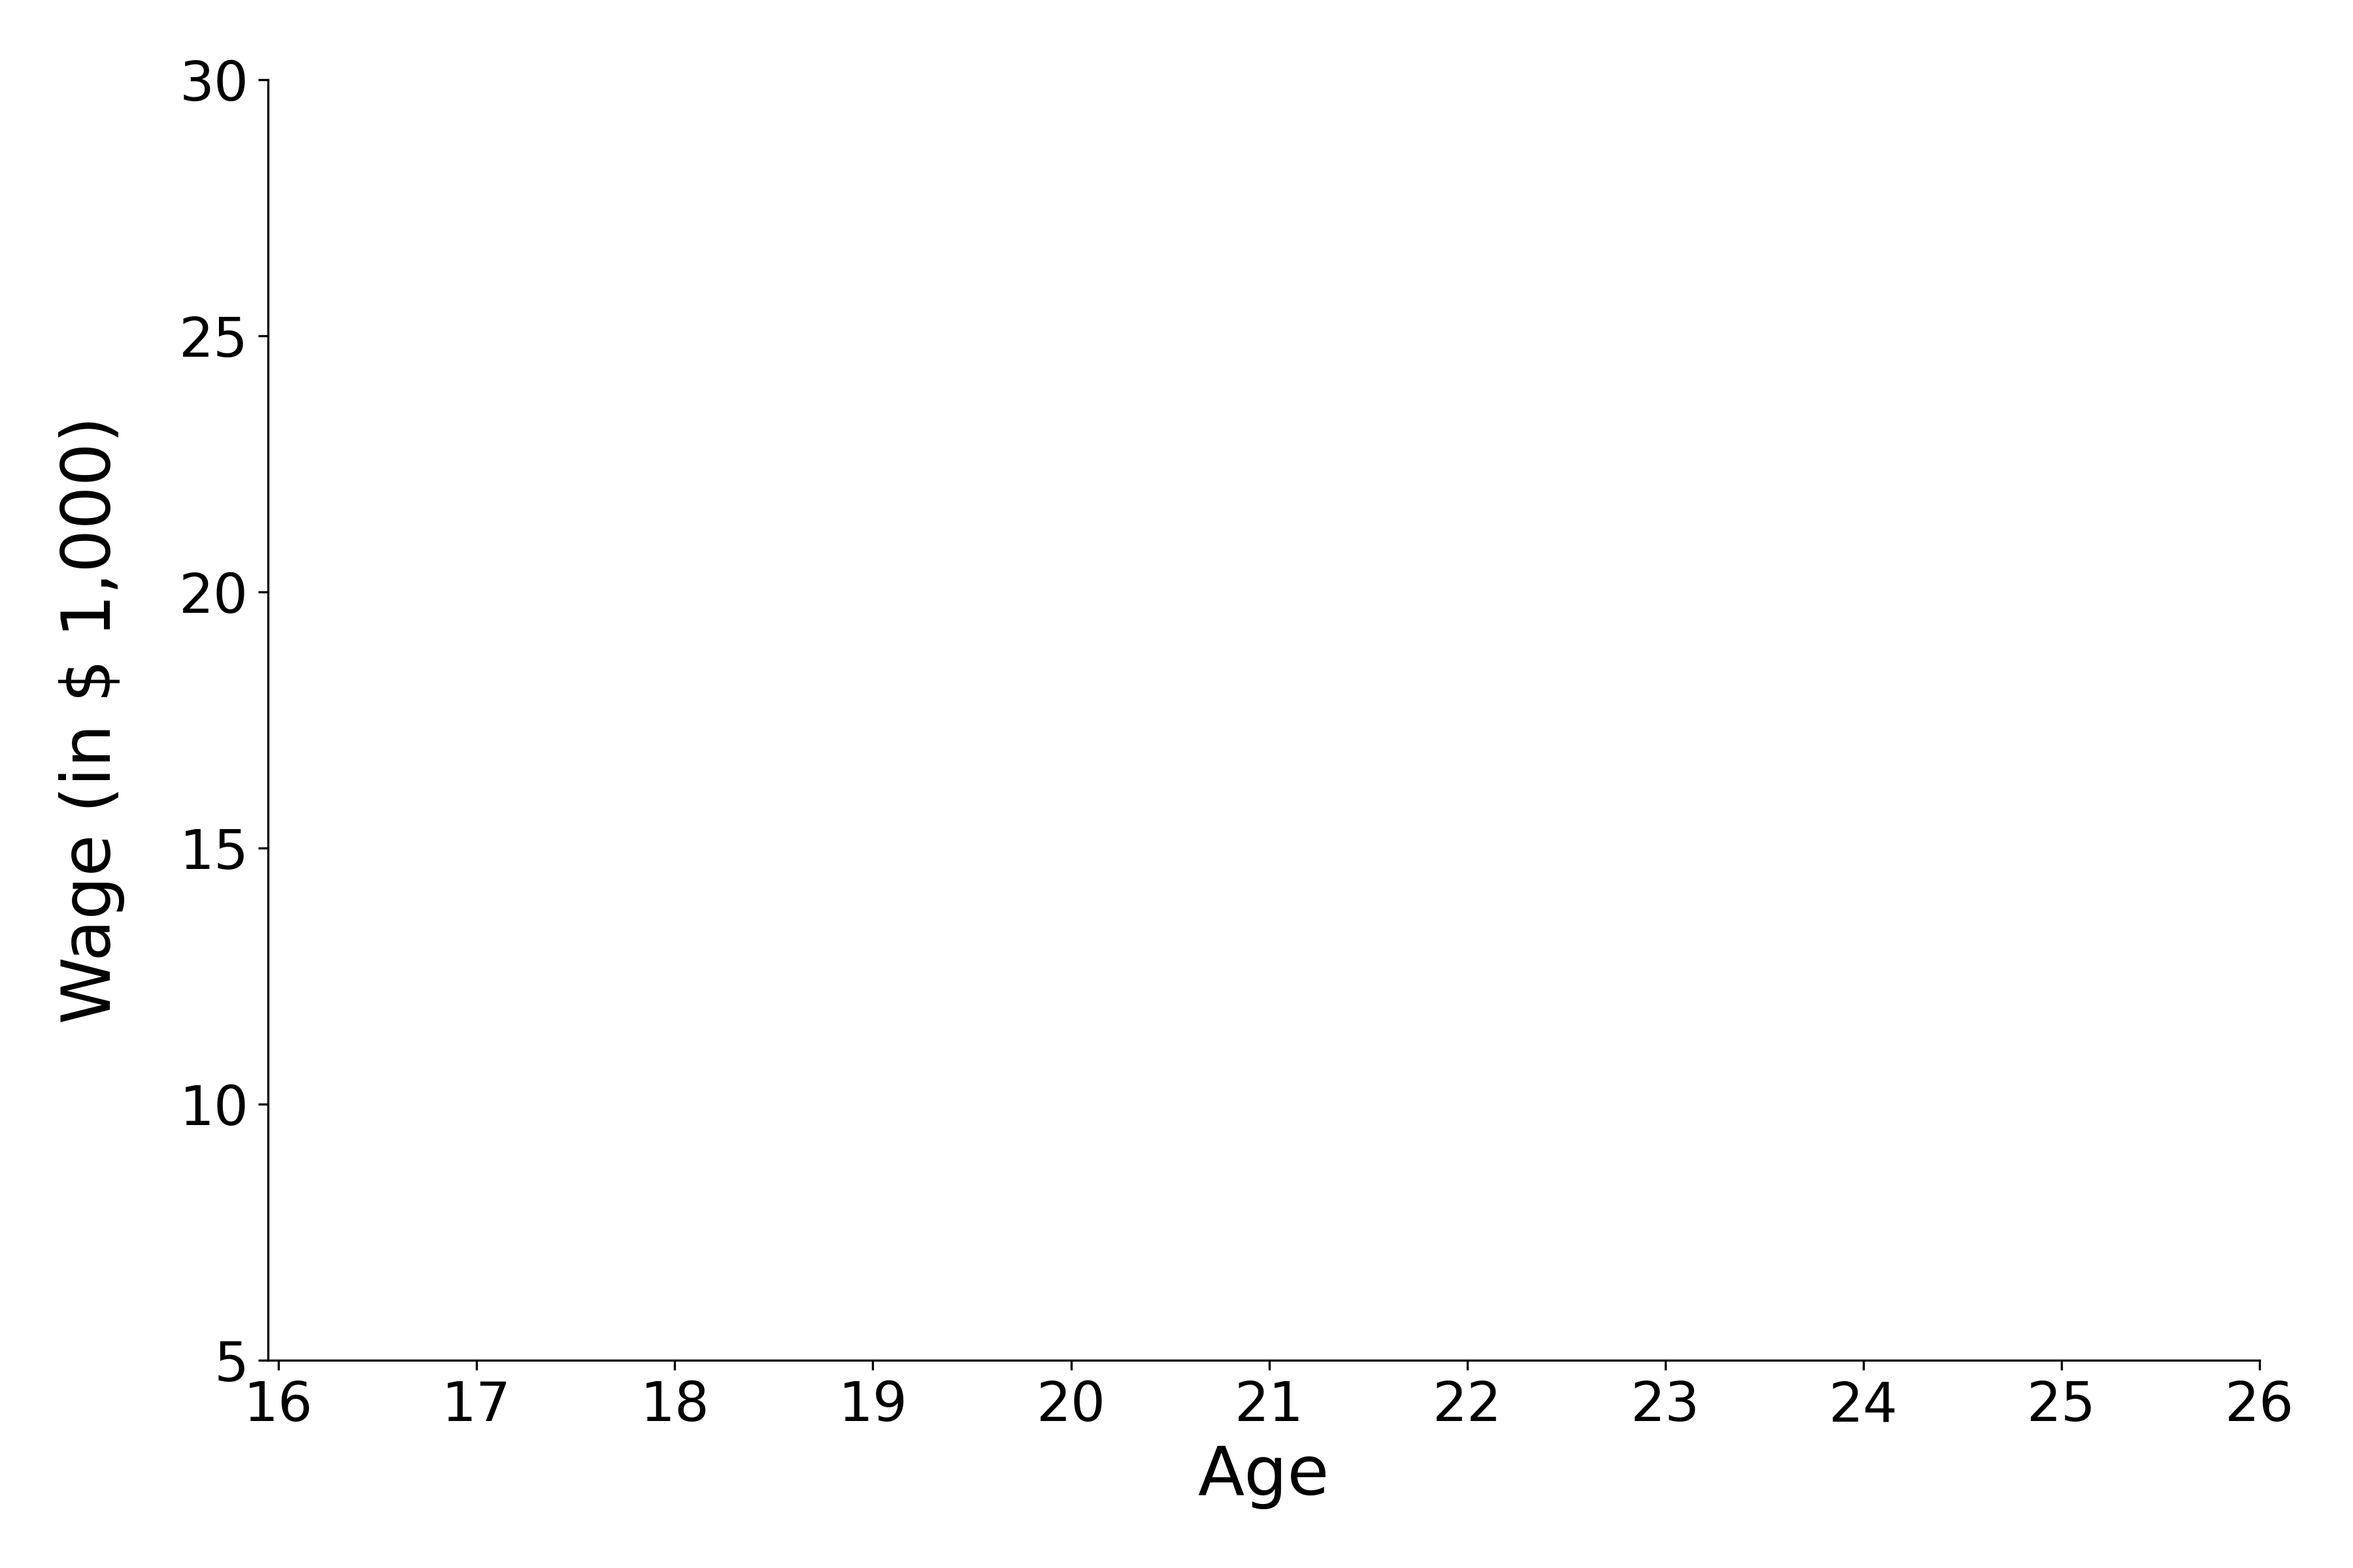
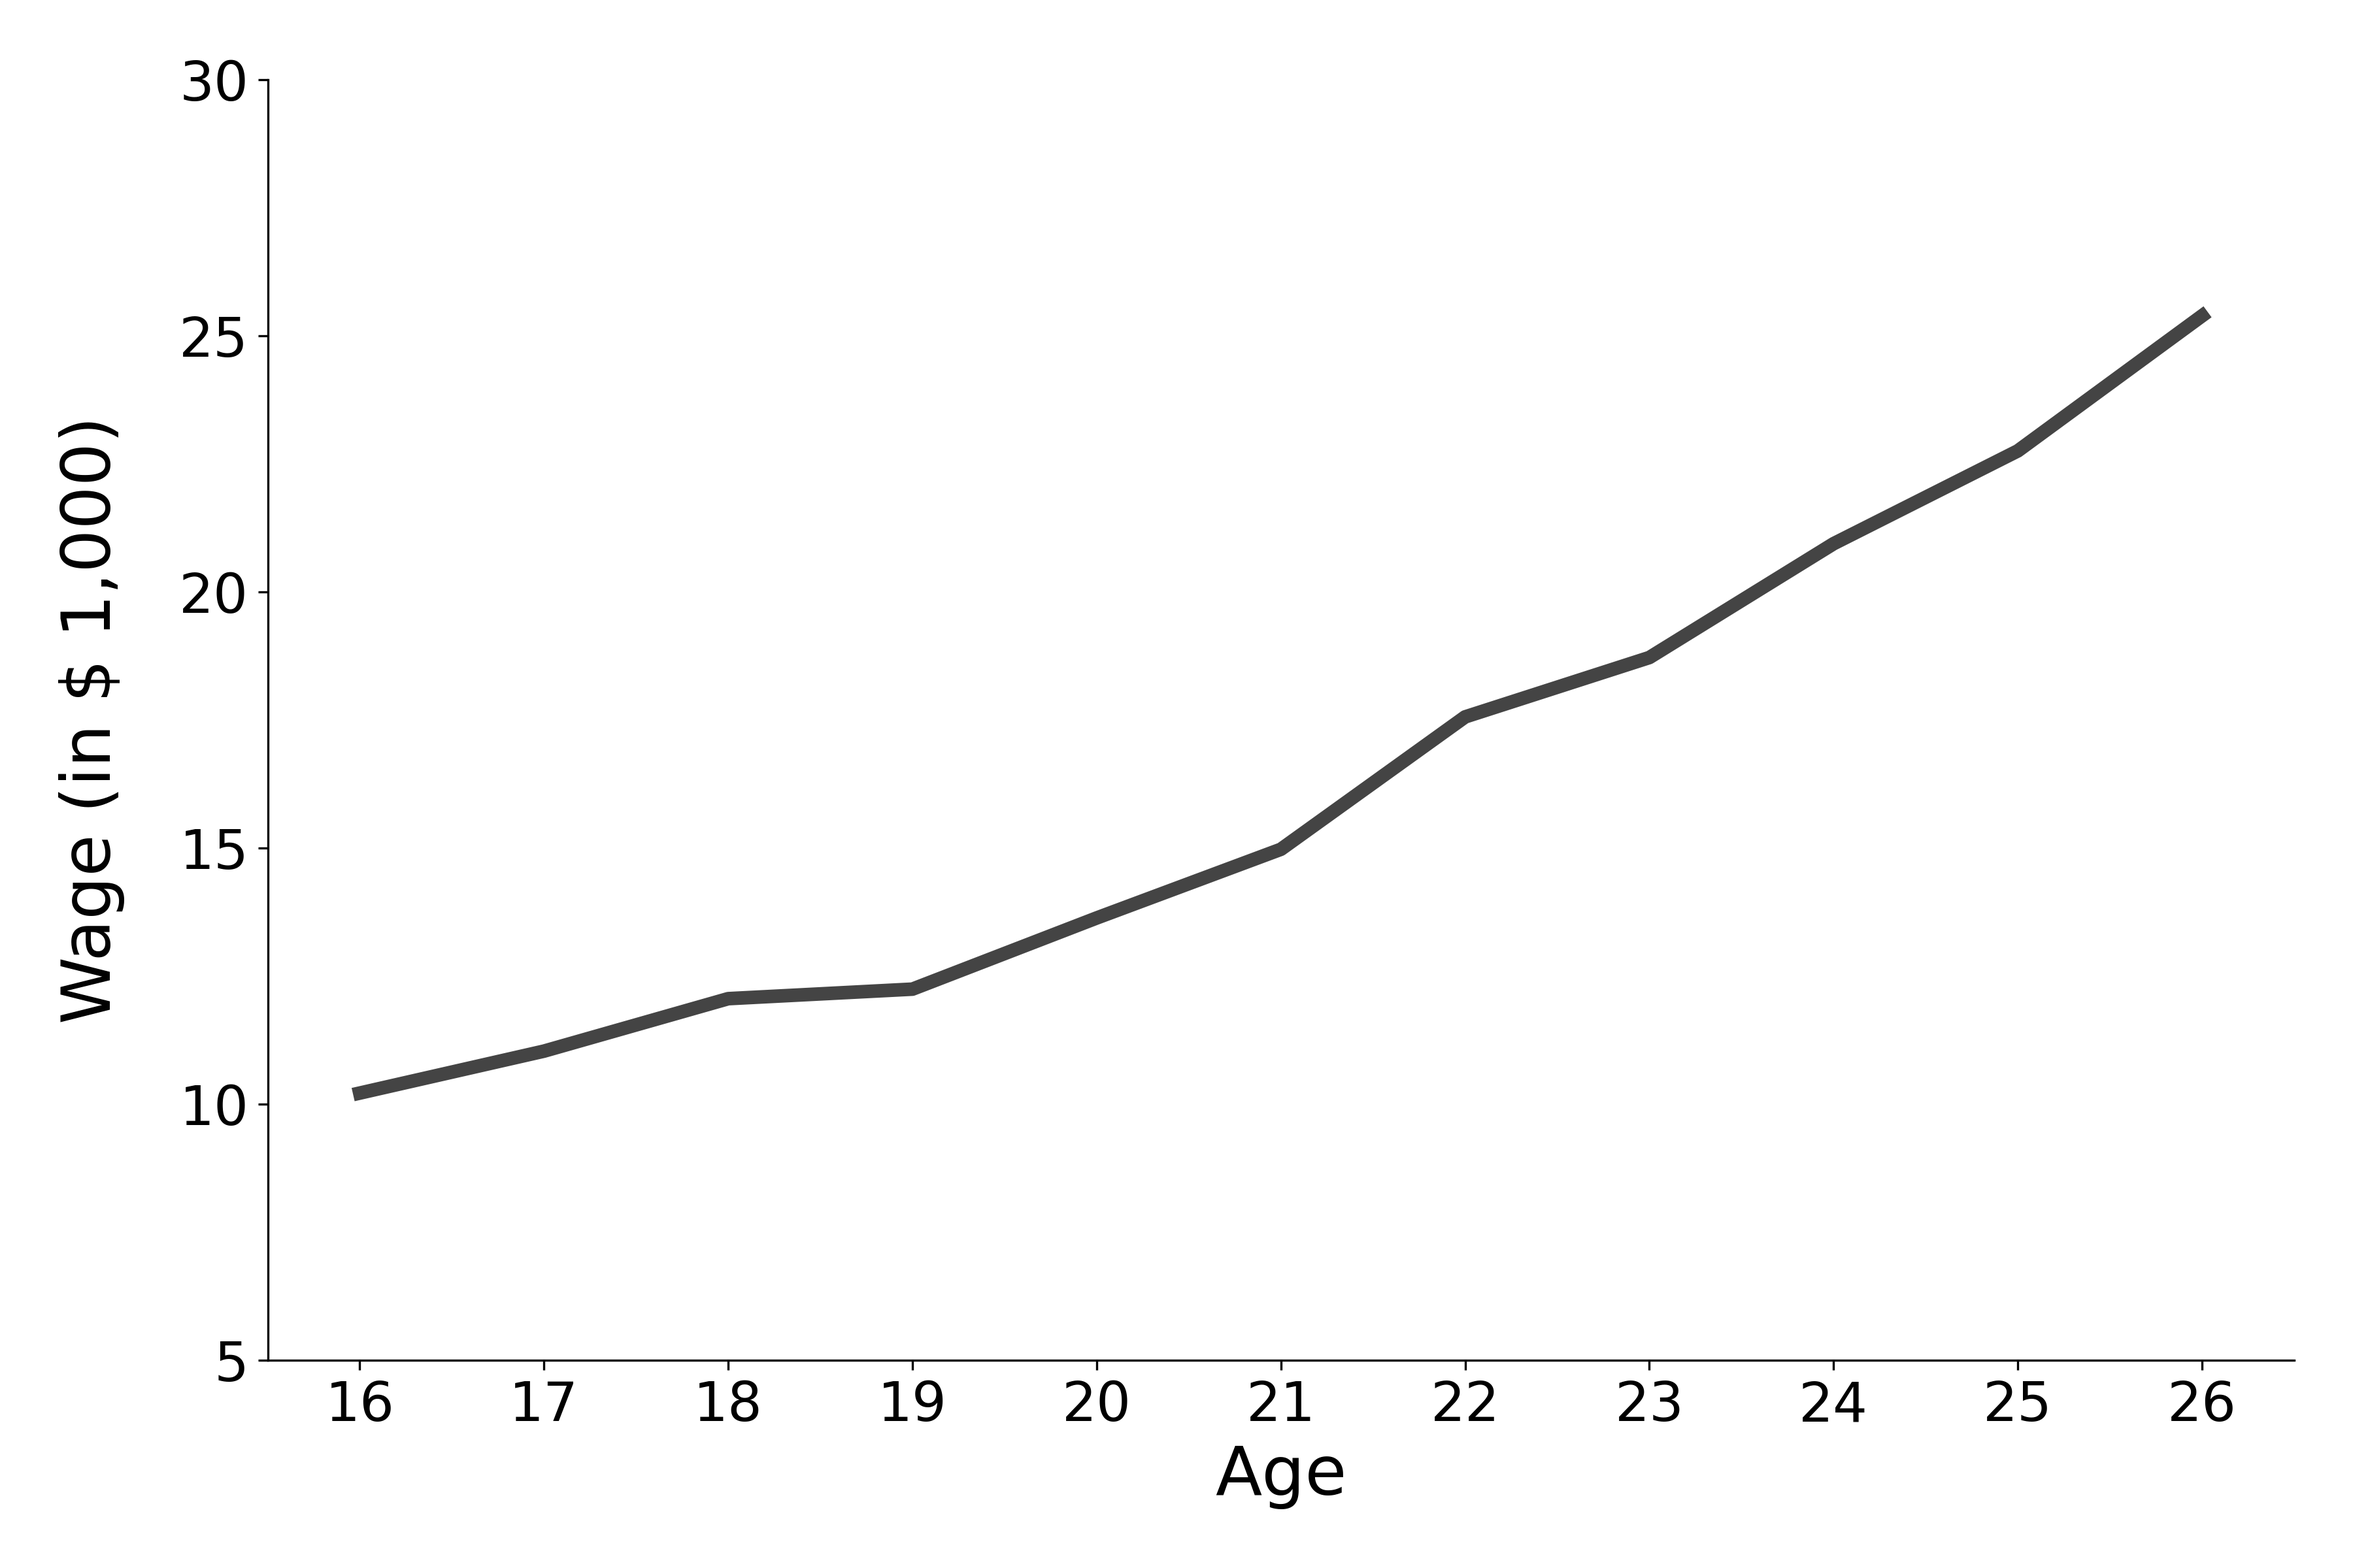
edits

diff --git a/paper/sections/titlepage.tex b/paper/sections/titlepage.tex
@@ -12,7 +12,7 @@
 
 \begin{center}\textbf{Abstract}\end{center}
 \begin{abstract}
-\noindent We present background material on a class of structural microeconometric models to facilitate transdisciplinary collaboration in their future development. We describe the economic framework, mathematical formulation, and calibration procedures for so-called Eckstein-Keane-Wolpin (EKW) models. We provide an exemplifying analysis of the seminal model outlined in \citet{Keane.1997} and present our group's ensemble of research codes that allow for its specification, simulation, and calibration. We summarize our efforts drawing on research outside economics to address the computational challenges in the application of EKW models and improve the reliability and interpretability of the economic insights they generate.
+\noindent We present background material on a class of structural microeconometric models to facilitate transdisciplinary collaboration in their future development. We describe the economic framework, mathematical formulation, and calibration procedures for the so-called Eckstein-Keane-Wolpin (EKW) models. We provide an exemplifying analysis of the seminal model outlined in \citet{Keane.1997} and present our group's ensemble of research codes that allow for its specification, simulation, and calibration. We summarize our efforts drawing on research outside economics to address the computational challenges in applying EKW models and improve the reliability and interpretability of the economic insights they generate.
 \end{abstract}
 
 \let\thefootnote\relax\footnote{Corresponding author: Philipp Eisenhauer, peisenha@uni-bonn.de. We thank  Jano\'s Gabler, Annica Gehlen, Boryana Ilieva, Fedor Ishakov, Lena Janys, Moritz Mendel, Tim Mensinger, Tobias Raabe, Klara R\"ohl, Rafael Suchy, and John Rust for their valuable input. Luis Wardenbach provided outstanding research assistance.}

diff --git a/replication/run.py b/replication/run.py
@@ -107,7 +107,8 @@ def plot_average_wage(df, savgol=False, color="colors"):
 
     fig, ax = plt.subplots()
 
-    y = df.loc[("empirical", slice(10)), "average"].values
+    y = df.loc[("empirical", slice(10)), "average"].values / 1000
+
     ext = ""
     if savgol:
         y = savgol_filter(y, 3, 2)
@@ -168,21 +169,26 @@ def plot_model_fit(df, savgol=False, color="color"):
 
         fig, ax = plt.subplots()
 
-        y = df.loc[("empirical", slice(10)), label].values
-        if label == "blue_collar":
-            y = y * 100
+        y_empirical = df.loc[("empirical", slice(10)), label].values
+        y_simulation = df.loc[("simulated", slice(10)), label].values
 
+
+        if label == "blue_collar":
+            y_empirical = y_empirical * 100
+            y_simulation *= 100
+        else:
+            y_empirical = y_empirical / 1000
+            y_simulation /= 1_000
         ext = ""
         if savgol:
-            y = savgol_filter(y, 5, 4)
+            y = savgol_filter(y_empirical, 5, 4)
             ext = "-savgol"
 
         ax.plot(
-            range(11), y, label="Empirical", color=color_scheme[color]["blue_collar"]
+            range(11), y_empirical, label="Empirical", color=color_scheme[color]["blue_collar"]
         )
 
-        y = df.loc[("simulated", slice(10)), label].values
-        ax.plot(range(11), y, label="Simulated", color=color_scheme[color]["school"])
+        ax.plot(range(11), y_simulation, label="Simulated", color=color_scheme[color]["school"])
 
         ax.legend(loc="upper left")
 
